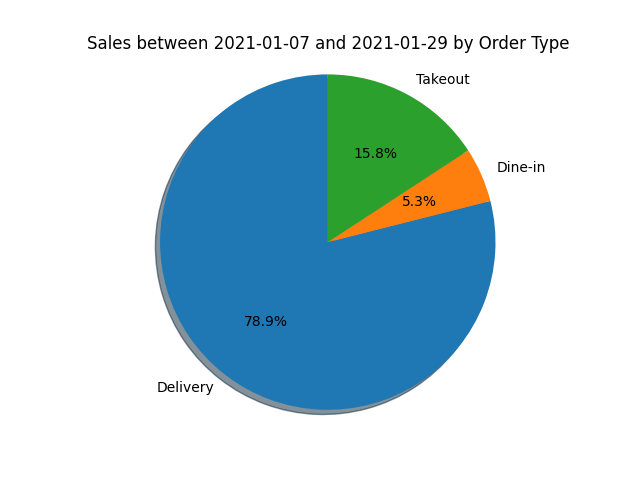
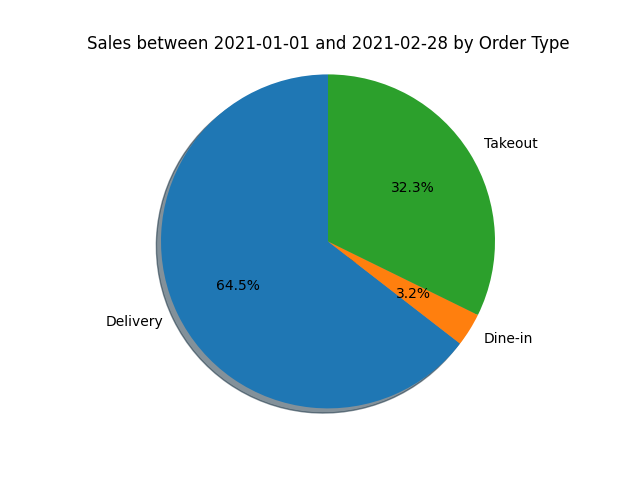
fixed graph issue

diff --git a/HTML/generateReport_page.html b/HTML/generateReport_page.html
@@ -51,10 +51,8 @@
             </label>
         </section>
 
-        <input type = "submit" value = "submit">
+        <input type = "submit" value = "Generate" class="input_field generic_btn" style = "background: #DE9E37">
 
-
-        <a class="input_field generic_btn" style = "background: #DE9E37" href="transitional_page.html">Generate</a>   <!--TODO:does this need to run a python script that downloads the graph to the computer, or does it need to link to another page that shows the results?r-->
     </form>
 
     <a href = "transitional_page.html" class = "home_btn"> 

diff --git a/HTML/transitional_page.html b/HTML/transitional_page.html
@@ -26,9 +26,9 @@
 
     <a class="btn generic_btn" style = "background: #DE9E37" href="index.html">Sign Out</a>   <!--added a inline style bc this button was the only one that needed that specific color-->
 
-    <a href = "transitional_page.html" class = "home_btn"> <!--FIXME:is this necessary here, since this is technically the home page?-->
-        <img src = "../css/images/homeBtn.svg" alt = "home button">
-    </a>
+
+
+    
    
 </body> 
 

diff --git a/HTML/eTransitional_page.html b/HTML/eTransitional_page.html
@@ -24,9 +24,7 @@
 
     <a class="btn generic_btn" style = "background: #DE9E37" href="index.html">Sign Out</a>   <!--added a inline style bc this button was the only one that needed that specific color-->
 
-    <a href = "transitional_page.html" class = "home_btn"> <!--FIXME:is this necessary here, since this is technically the home page?-->
-        <img src = "../css/images/homeBtn.svg" alt = "home button">
-    </a>
+    
    
 </body> 
 

diff --git a/HTML/index.html b/HTML/index.html
@@ -25,6 +25,8 @@
         
 </body>
 
+
+
 <!--http://localhost/Pizza%20Website/HTML/index.html   <-- enter this address into chrome after starting XAMPP Apache and MySQL server-->
 
 

diff --git a/php/generateReport_page.php b/php/generateReport_page.php
@@ -120,6 +120,7 @@
 
             <img src = "../css/images/orderType_pie_chart.png">
             <img src = "../css/images/toppingType_pie_chart.png">
+            <!-- Sometimes we have to ctrl+F5 to do a hard reload of the page in order to see the updated graphs -->
 
 
     <?php
